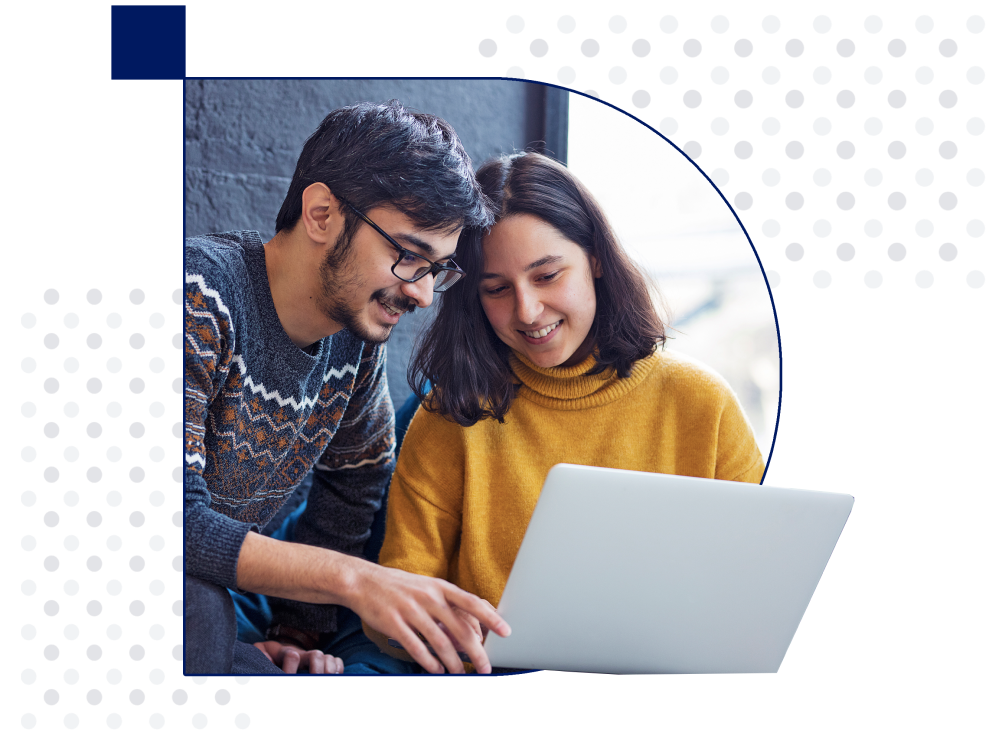
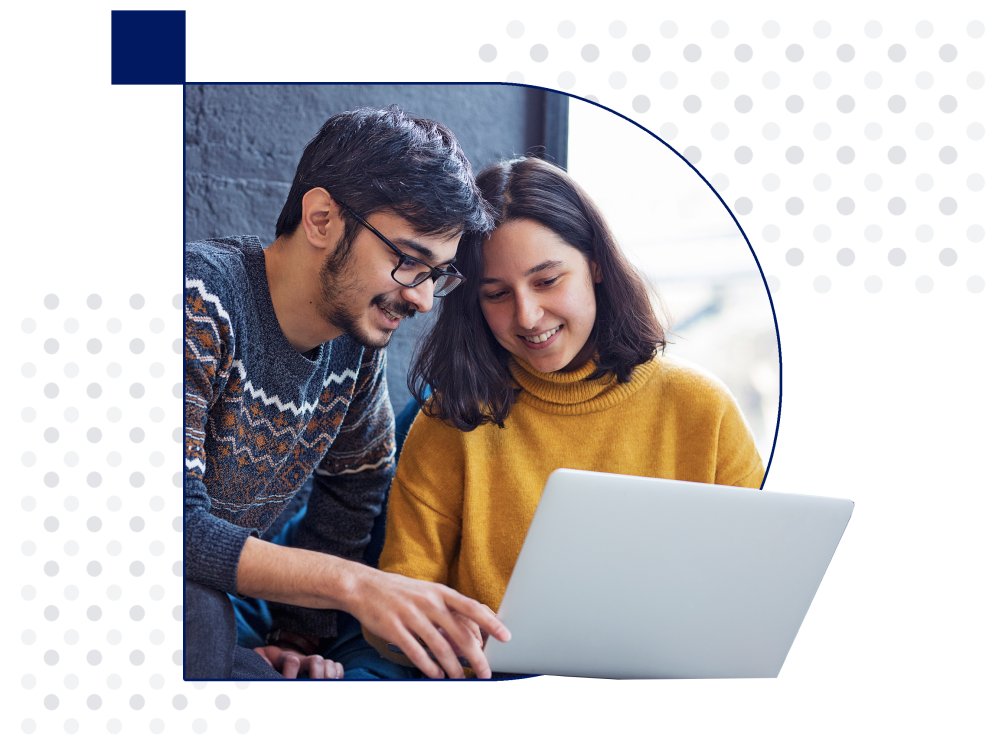
Updated homepage

diff --git a/tailwind.config.js b/tailwind.config.js
@@ -10,6 +10,15 @@ module.exports = {
     ],
 
     theme: {
+        container: {
+            padding: {
+                DEFAULT: "0rem",
+                sm: "2rem",
+                lg: "4rem",
+                xl: "6rem",
+                "2xl": "10rem",
+            },
+        },
         extend: {
             fontFamily: {
                 sans: ["Nunito", ...defaultTheme.fontFamily.sans],
@@ -23,7 +32,8 @@ module.exports = {
                 intelblue: "rgba(0, 8, 100, 1)",
                 intellight: "rgba(164, 170, 220, 1)",
                 intelblue2: "rgba(228, 231, 255, 1)",
-                secondary: "rgba(222,170,82, 1)"
+                secondary: "rgba(222,170,82, 1)",
+                "secondary-t": "rgba(222,170,82, .5)",
             },
         },
     },

diff --git a/resources/css/app.css b/resources/css/app.css
@@ -21,3 +21,18 @@
     font-family: "INTEL_MEDIUM";
     src: url("../fonts/intelone-display-medium.otf");
 }
+
+@layer components {
+    .video-container {
+        position: relative;
+        padding-bottom: 56.25%;
+    }
+
+    .video-container iframe {
+        position: absolute;
+        top: 0;
+        left: 0;
+        width: 100%;
+        height: 100%;
+    }
+}

diff --git a/resources/views/layouts/modules.blade.php b/resources/views/layouts/modules.blade.php
@@ -1,0 +1,163 @@
+<div class="p-4 bg-white my-12">
+    <div class="container mx-auto">
+        <section>
+            <h3 class="text-justify sm:text-center text-gray-700 leading-loose text-lg">This is a self-paced course
+                in which learners will be introduced to <span class="text-intelblue font-intelmedium">AI</span> and
+                <span class="text-intelblue font-intelmedium">DIFFERENT TECHNOLOGIES</span>
+                <br class="hidden sm:block">
+                that work with AI. The course is broken down into <span
+                    class="text-intelblue font-intelmedium">THREE MODULES</span>.
+                <br class="hidden sm:block">
+                By the end of this course, <span class="text-intelblue font-intelmedium">LEARNERS</span> will be
+                able to:
+            </h3>
+        </section>
+
+        <section class="grid grid-cols-2 md:grid-cols-4 my-12 gap-y-8">
+            <div>
+                <div class="w-10 h-10 bg-secondary-t rounded-full flex justify-center items-center mx-auto">
+                    <svg width="22" height="22" viewBox="0 0 22 22" fill="none"
+                        class="bg-gray-800 h-5 w-5">
+                        xmlns="http://www.w3.org/2000/svg">
+                        <path
+                            d="M10.25 5H11.75V9.5H10.25V5ZM10.25 12.5H11.75V17H10.25V12.5ZM12.5 10.25H17V11.75H12.5V10.25ZM5 10.25H9.5V11.75H5V10.25ZM2 6.5H0.5V2C0.500397 1.6023 0.65856 1.221 0.939778 0.939778C1.221 0.65856 1.6023 0.500397 2 0.5H6.5V2H2V6.5ZM6.5 21.5H2C1.6023 21.4996 1.221 21.3414 0.939778 21.0602C0.65856 20.779 0.500397 20.3977 0.5 20V15.5H2V20H6.5V21.5ZM20 21.5H15.5V20H20V15.5H21.5V20C21.4996 20.3977 21.3414 20.779 21.0602 21.0602C20.779 21.3414 20.3977 21.4996 20 21.5ZM21.5 6.5H20V2H15.5V0.5H20C20.3977 0.500397 20.779 0.65856 21.0602 0.939778C21.3414 1.221 21.4996 1.6023 21.5 2V6.5Z"
+                            fill="white" />
+                    </svg>
+                </div>
+                <p class="text-center mt-2 text-gray-700 text-sm">
+                    Identify AI applications
+                </p>
+            </div>
+            <div>
+                <div class="w-10 h-10 bg-intellight rounded-full flex justify-center items-center mx-auto">
+                    <svg width="22" height="22" viewBox="0 0 22 22" fill="none"
+                        class="bg-gray-800 h-5 w-5">
+                        xmlns="http://www.w3.org/2000/svg">
+                        <path
+                            d="M10.25 5H11.75V9.5H10.25V5ZM10.25 12.5H11.75V17H10.25V12.5ZM12.5 10.25H17V11.75H12.5V10.25ZM5 10.25H9.5V11.75H5V10.25ZM2 6.5H0.5V2C0.500397 1.6023 0.65856 1.221 0.939778 0.939778C1.221 0.65856 1.6023 0.500397 2 0.5H6.5V2H2V6.5ZM6.5 21.5H2C1.6023 21.4996 1.221 21.3414 0.939778 21.0602C0.65856 20.779 0.500397 20.3977 0.5 20V15.5H2V20H6.5V21.5ZM20 21.5H15.5V20H20V15.5H21.5V20C21.4996 20.3977 21.3414 20.779 21.0602 21.0602C20.779 21.3414 20.3977 21.4996 20 21.5ZM21.5 6.5H20V2H15.5V0.5H20C20.3977 0.500397 20.779 0.65856 21.0602 0.939778C21.3414 1.221 21.4996 1.6023 21.5 2V6.5Z"
+                            fill="white" />
+                    </svg>
+                </div>
+                <p class="text-center mt-2 text-gray-700 text-sm">
+                    Identify present and future <br>
+                    impacts of AI </p>
+            </div>
+            <div>
+                <div class="w-10 h-10 bg-secondary-t rounded-full flex justify-center items-center mx-auto">
+                    <svg width="22" height="22" viewBox="0 0 22 22" fill="none"
+                        class="bg-gray-800 h-5 w-5">
+                        xmlns="http://www.w3.org/2000/svg">
+                        <path
+                            d="M10.25 5H11.75V9.5H10.25V5ZM10.25 12.5H11.75V17H10.25V12.5ZM12.5 10.25H17V11.75H12.5V10.25ZM5 10.25H9.5V11.75H5V10.25ZM2 6.5H0.5V2C0.500397 1.6023 0.65856 1.221 0.939778 0.939778C1.221 0.65856 1.6023 0.500397 2 0.5H6.5V2H2V6.5ZM6.5 21.5H2C1.6023 21.4996 1.221 21.3414 0.939778 21.0602C0.65856 20.779 0.500397 20.3977 0.5 20V15.5H2V20H6.5V21.5ZM20 21.5H15.5V20H20V15.5H21.5V20C21.4996 20.3977 21.3414 20.779 21.0602 21.0602C20.779 21.3414 20.3977 21.4996 20 21.5ZM21.5 6.5H20V2H15.5V0.5H20C20.3977 0.500397 20.779 0.65856 21.0602 0.939778C21.3414 1.221 21.4996 1.6023 21.5 2V6.5Z"
+                            fill="white" />
+                    </svg>
+                </div>
+                <p class="text-center mt-2 text-gray-700 text-sm">
+                    Understand AI Ethics
+                </p>
+            </div>
+            <div>
+                <div class="w-10 h-10 bg-intellight rounded-full flex justify-center items-center mx-auto">
+                    <svg width="22" height="22" viewBox="0 0 22 22" fill="none"
+                        class="bg-gray-800 h-5 w-5">
+                        xmlns="http://www.w3.org/2000/svg">
+                        <path
+                            d="M10.25 5H11.75V9.5H10.25V5ZM10.25 12.5H11.75V17H10.25V12.5ZM12.5 10.25H17V11.75H12.5V10.25ZM5 10.25H9.5V11.75H5V10.25ZM2 6.5H0.5V2C0.500397 1.6023 0.65856 1.221 0.939778 0.939778C1.221 0.65856 1.6023 0.500397 2 0.5H6.5V2H2V6.5ZM6.5 21.5H2C1.6023 21.4996 1.221 21.3414 0.939778 21.0602C0.65856 20.779 0.500397 20.3977 0.5 20V15.5H2V20H6.5V21.5ZM20 21.5H15.5V20H20V15.5H21.5V20C21.4996 20.3977 21.3414 20.779 21.0602 21.0602C20.779 21.3414 20.3977 21.4996 20 21.5ZM21.5 6.5H20V2H15.5V0.5H20C20.3977 0.500397 20.779 0.65856 21.0602 0.939778C21.3414 1.221 21.4996 1.6023 21.5 2V6.5Z"
+                            fill="white" />
+                    </svg>
+                </div>
+                <p class="text-center mt-2 text-gray-700 text-sm">
+                    Understand the process of <br>
+                    building AI solutions </p>
+            </div>
+        </section>
+
+        <section class="grid grid-cols-1 md:grid-cols-3 my-12 gap-y-8 md:gap-x-8">
+            <div
+                class="max-w-sm mx-auto bg-white border border-gray-200 rounded-lg shadow-md h-full flex flex-col">
+                <a href="#">
+                    <img class="rounded-t-lg" src="{{ asset('images/ai.jpg') }}" alt="" />
+                </a>
+                <div class="p-5 h-full flex flex-col">
+                    <a href="#">
+                        <h5 class="mb-2 text-2xl font-intelmedium tracking-tight text-gray-900">
+                            Introduction to AI</h5>
+                    </a>
+                    <p class="mb-3 text-gray-700 text-sm text-justify">This module serves as an
+                        introduction to what AI is and what are the emerging technologies revolving AI</p>
+                    <a href="#" class="mt-auto">
+                        <div class="flex items-center">
+                            <svg xmlns="http://www.w3.org/2000/svg" fill="none" viewBox="0 0 24 24"
+                                class="w-5 h-5 text-intelblue" stroke-width="1.5" stroke="currentColor"
+                                class="w-6 h-6">
+                                <path stroke-linecap="round" stroke-linejoin="round"
+                                    d="M12.75 15l3-3m0 0l-3-3m3 3h-7.5M21 12a9 9 0 11-18 0 9 9 0 0118 0z" />
+                            </svg>
+                            <span class="ml-1 text-intelblue hover:underline font-intelmedium text-sm">
+                                Find out more
+                            </span>
+                        </div>
+                    </a>
+                </div>
+            </div>
+            <div
+                class="max-w-sm mx-auto bg-white border border-gray-200 rounded-lg shadow-md h-full flex flex-col">
+                <a href="#">
+                    <img class="rounded-t-lg" src="{{ asset('images/ai.jpg') }}" alt="" />
+                </a>
+                <div class="p-5 h-full flex flex-col">
+                    <a href="#">
+                        <h5 class="mb-2 text-2xl font-intelmedium tracking-tight text-gray-900">
+                            Understanding AI</h5>
+                    </a>
+                    <p class="mb-3 text-gray-700 text-sm text-justify">Understand what is inside Artificial Intelligence and learn about AI tools - Teachable Machine/ Intel DevCloud/ Intel OpenVINO Examine and discuss the impacts of AI in present and in the future</p>
+                    <a href="#" class="mt-auto">
+                        <div class="flex items-center">
+                            <svg xmlns="http://www.w3.org/2000/svg" fill="none" viewBox="0 0 24 24"
+                                class="w-5 h-5 text-intelblue" stroke-width="1.5" stroke="currentColor"
+                                class="w-6 h-6">
+                                <path stroke-linecap="round" stroke-linejoin="round"
+                                    d="M12.75 15l3-3m0 0l-3-3m3 3h-7.5M21 12a9 9 0 11-18 0 9 9 0 0118 0z" />
+                            </svg>
+                            <span class="ml-1 text-intelblue hover:underline font-intelmedium text-sm">
+                                Find out more
+                            </span>
+                        </div>
+                    </a>
+                </div>
+            </div>
+            <div
+                class="max-w-sm mx-auto bg-white border border-gray-200 rounded-lg shadow-md h-full flex flex-col">
+                <a href="#">
+                    <img class="rounded-t-lg" src="{{ asset('images/ai.jpg') }}" alt="" />
+                </a>
+                <div class="p-5 h-full flex flex-col">
+                    <a href="#">
+                        <h5 class="mb-2 text-2xl font-intelmedium tracking-tight text-gray-900">
+                            Plan AI</h5>
+                    </a>
+                    <p class="mb-3 text-gray-700 text-sm text-justify">Learn about the importance of AI Ethics and responsible AI development Devise SMART plans using the SMART goal methodology.</p>
+                    <a href="#" class="mt-auto">
+                        <div class="flex items-center">
+                            <svg xmlns="http://www.w3.org/2000/svg" fill="none" viewBox="0 0 24 24"
+                                class="w-5 h-5 text-intelblue" stroke-width="1.5" stroke="currentColor"
+                                class="w-6 h-6">
+                                <path stroke-linecap="round" stroke-linejoin="round"
+                                    d="M12.75 15l3-3m0 0l-3-3m3 3h-7.5M21 12a9 9 0 11-18 0 9 9 0 0118 0z" />
+                            </svg>
+                            <span class="ml-1 text-intelblue hover:underline font-intelmedium text-sm">
+                                Find out more
+                            </span>
+                        </div>
+                    </a>
+                </div>
+            </div>
+        </section>
+        <section class="my-12">
+            <h3 class="text-center font-intelmedium text-gray-700">Our Esteemed Industry Partners</h3>
+            <div class="max-w-3xl mx-auto">
+                <img src="{{ asset('images/partners.jpg') }}" alt="partners" class="my-4 md:my-8">
+            </div>
+        </section>
+    </div>
+</div>

diff --git a/resources/views/layouts/workforce.blade.php b/resources/views/layouts/workforce.blade.php
@@ -1,0 +1,76 @@
+<div>
+    <div class="p-4 bg-intelblue2 my-12">
+        <div class="container mx-auto">
+            <section class="md:grid md:grid-cols-2 md:gap-8 py-8">
+                <div class="md:order-last mb-6">
+                    <h3 class="text-intelblue font-intelmedium text-xl mb-3">AI for Future Workforce</h3>
+                    <p class="text-gray-700 text-justify">
+                        Lorem Ipsum is simply dummy text of the printing and typesetting industry. Lorem Ipsum has
+                        been
+                        the
+                        industry's standard dummy text ever since the 1500s, when an unknown printer took a galley
+                        of
+                        type
+                        and scrambled it to make a type specimen book. It has survived not only five centuries, but
+                        also
+                        the
+                        leap into electronic typesetting, remaining essentially unchanged.
+                    </p>
+                </div>
+                <div class="video-container">
+                    <iframe src="https://www.youtube.com/embed/K9iflwQqVsA" title="YouTube video player"
+                        frameborder="0"
+                        allow="accelerometer; autoplay; clipboard-write; encrypted-media; gyroscope; picture-in-picture; web-share"
+                        allowfullscreen></iframe>
+                </div>
+            </section>
+        </div>
+    </div>
+    <div class="p-4 bg-white my-12">
+        <div class="container mx-auto">
+            <section class="grid grid-cols-1 md:grid-cols-3 my-12 gap-y-14 md:gap-x-8">
+                <div class="max-w-xs mx-auto bg-white h-full flex flex-col">
+                    <a href="#">
+                        <img class="rounded-lg" src="{{ asset('images/students.jpg') }}" alt="" />
+                    </a>
+                    <div class="h-full flex flex-col">
+                        <a href="#">
+                            <h5 class="my-3 text-lg font-intelmedium tracking-tight text-intelblue">
+                                For Students</h5>
+                        </a>
+                        <p class="mb-3 text-gray-700 text-sm font-intelmedium text-justify">Acquire Employbility
+                            Skills, Gain
+                            Industry Experience, Strengthen Portfolio.</p>
+                    </div>
+                </div>
+                <div class="max-w-xs mx-auto bg-white h-full flex flex-col">
+                    <a href="#">
+                        <img class="rounded-lg" src="{{ asset('images/students2.jpg') }}" alt="" />
+                    </a>
+                    <div class="h-full flex flex-col">
+                        <a href="#">
+                            <h5 class="my-3 text-lg font-intelmedium tracking-tight text-intelblue">
+                                For Institutes</h5>
+                        </a>
+                        <p class="mb-3 text-gray-700 text-sm font-intelmedium text-justify">Enhanced Student
+                            Employbility, Collaborate with Industry leaders, Supervise Real-World AI Projects.</p>
+                    </div>
+                </div>
+                <div class="max-w-xs mx-auto bg-white h-full flex flex-col">
+                    <a href="#">
+                        <img class="rounded-lg" src="{{ asset('images/mascot.jpg') }}" alt="" />
+                    </a>
+                    <div class="h-full flex flex-col">
+                        <a href="#">
+                            <h5 class="my-3 text-lg font-intelmedium tracking-tight text-intelblue">
+                                For Industries</h5>
+                        </a>
+                        <p class="mb-3 text-gray-700 text-sm font-intelmedium text-justify">Identify Top Future
+                            Talents, Collaborate with Top Institutions, Explore Fresh Perspectives on Industry
+                            Use-Cases.</p>
+                    </div>
+                </div>
+            </section>
+        </div>
+    </div>
+</div>

diff --git a/resources/views/layouts/public-nav.blade.php b/resources/views/layouts/public-nav.blade.php
@@ -1,7 +1,7 @@
 <nav class="bg-white border-gray-200 px-2 sm:px-4 py-2.5 rounded">
     <div class="container flex flex-wrap items-center justify-between mx-auto">
         <a href="{{ route('home') }}" class="flex items-center">
-            <img src="{{ asset('images/logo.png') }}" class="h-6 mr-3 sm:h-9" alt="Logo" />
+            <img src="{{ asset('images/logo.png') }}" class="h-6 mr-3 sm:h-12" alt="Logo" />
         </a>
         <button data-collapse-toggle="navbar-default" type="button"
             class="inline-flex items-center p-2 ml-3 text-sm text-gray-500 rounded-lg md:hidden hover:bg-intelblue2 focus:outline-none focus:ring-2 focus:ring-intelblue2"
@@ -16,18 +16,10 @@
         </button>
         <div class="hidden w-full md:block md:w-auto" id="navbar-default">
             <ul
-                class="flex flex-col items-center p-4 mt-4 border border-gray-200 rounded-lg bg-intelblue2 md:flex-row md:space-x-8 md:mt-0 text-base md:border-0 md:bg-white">
+                class="flex flex-col items-center p-4 pr-0 mt-4 border border-gray-200 rounded-lg bg-intelblue2 md:flex-row md:space-x-8 md:mt-0 text-base md:border-0 md:bg-white">
                 <li>
                     <a href="{{ route('home') }}" class="block py-2 pl-3 pr-4 text-intelblue hover:underline"
                         aria-current="page">Home</a>
-                </li>
-                <li>
-                    <a href="#" class="block py-2 pl-3 pr-4 text-intelblue hover:underline"
-                        aria-current="page">Internship Projects</a>
-                </li>
-                <li>
-                    <a href="#" class="block py-2 pl-3 pr-4 text-intelblue hover:underline"
-                        aria-current="page">Industry Partners</a>
                 </li>
                 <li class="flex md:w-36 items-center justify-center">
                     <svg xmlns="http://www.w3.org/2000/svg" viewBox="0 0 24 24" fill="currentColor"

diff --git a/resources/views/layouts/public-footer.blade.php b/resources/views/layouts/public-footer.blade.php
@@ -1,0 +1,28 @@
+<div>
+    <div class="p-4 bg-intelblue2 mt-12">
+        <div class="container mx-auto">
+            <footer>
+                <div class="md:grid md:grid-cols-3">
+                    <div>
+                        <img src="{{ asset('images/logo.png') }}" alt="">
+                        <p class="">
+                            Intel technologies may require enabled hardware, software or
+                            service activation. // No product or component can be absolutely
+                            secure. // Your costs and results may vary. // Performance
+                            varies by use, configuration and other factors. // See our
+                            complete legal Notices and Disclaimers. // Intel is committed to
+                            respecting human rights and avoiding complicity in human rights
+                            abuses. See Intel’s Global Human Rights Principles. Intel’s
+                            products and software are intended only to be used in
+                            applications that do not cause or contribute to a violation of
+                            an internationally recognised human right.
+                        </p>
+                    </div>
+                    <div class="md:col-span-2">
+
+                    </div>
+                </div>
+            </footer>
+        </div>
+    </div>
+</div>

diff --git a/resources/views/layouts/hero.blade.php b/resources/views/layouts/hero.blade.php
@@ -13,7 +13,7 @@
                         your career.
                     </p>
                     <div class="block sm:hidden max-w-2xl">
-                        <img src="./images/group.png" alt="" />
+                        <img src="./images/group2.png" alt="" />
                     </div>
                     <div class="flex justify-between md:justify-start py-4">
                         <div
@@ -45,7 +45,7 @@
                 </div>
             </div>
             <div class="hidden sm:block max-w-2xl">
-                <img src="./images/group.png" alt="" />
+                <img src="./images/group2.png" alt="" />
             </div>
         </div>
     </div>

diff --git a/resources/views/welcome.blade.php b/resources/views/welcome.blade.php
@@ -14,6 +14,9 @@
 <body class="font-intelregular">
     @include('layouts.public-nav')
     @include('layouts.hero')
+    @include('layouts.modules')
+    @include('layouts.workforce')
+    @include('layouts.public-footer')
 </body>
 
 </html>
